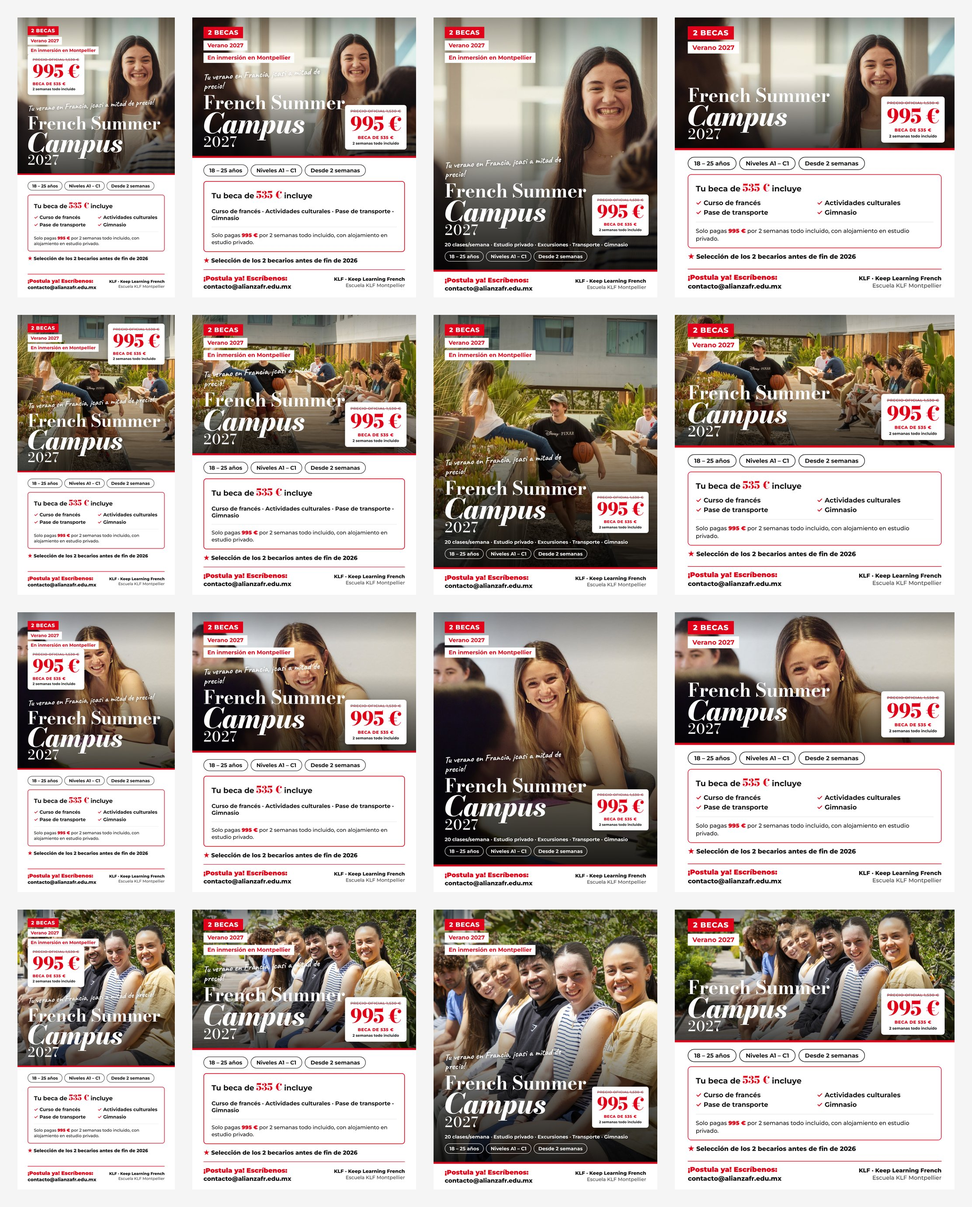
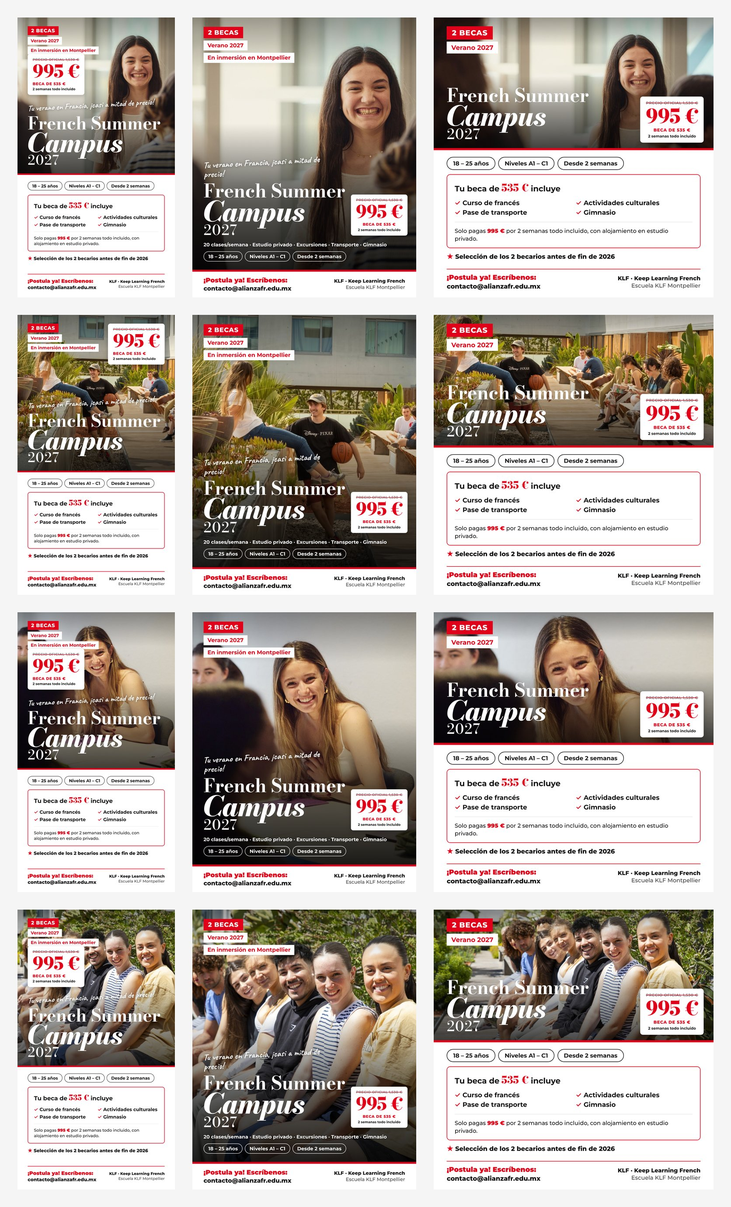
Kit French Summer Campus : retire le 4:5 « petite photo », garde le 4:5 plein cadre
Claude-Session: https://claude.ai/code/session_01NRurtX7ks675ybybqDqttP

diff --git a/marketing/french-summer-campus-2027/README.md b/marketing/french-summer-campus-2027/README.md
@@ -10,13 +10,12 @@ La version beca reprend la carte « promotion » AF (prix barré → 995 €).
 - `output/general/` : version tarif officiel (1 530 €)
 - `output/beca/` : version 2 bourses (995 € au lieu de 1 530 €)
 
-Chaque dossier contient 4 formats × 4 photos au choix (`foto-1` … `foto-4`) :
+Chaque dossier contient 3 formats × 4 photos au choix (`foto-1` … `foto-4`) :
 
 | Format | Usage |
 |---|---|
 | `story_1080x1920` | Story Instagram / Facebook |
-| `post-4x5_1080x1350` | Post Instagram / Facebook (photo + panneau d'infos) |
-| `post-4x5-visual_1080x1350` | Post Instagram / Facebook alternatif : photo plein cadre, infos en surimpression |
+| `post-4x5-visual_1080x1350` | Post Instagram / Facebook : photo plein cadre, infos en surimpression |
 | `carre-1x1_1080x1080` | Post carré, WhatsApp |
 
 Flyers PDF A4 (2 pages, page 2 = galerie photos) : `output/…_general_A4.pdf`, `output/…_beca_A4.pdf`.
